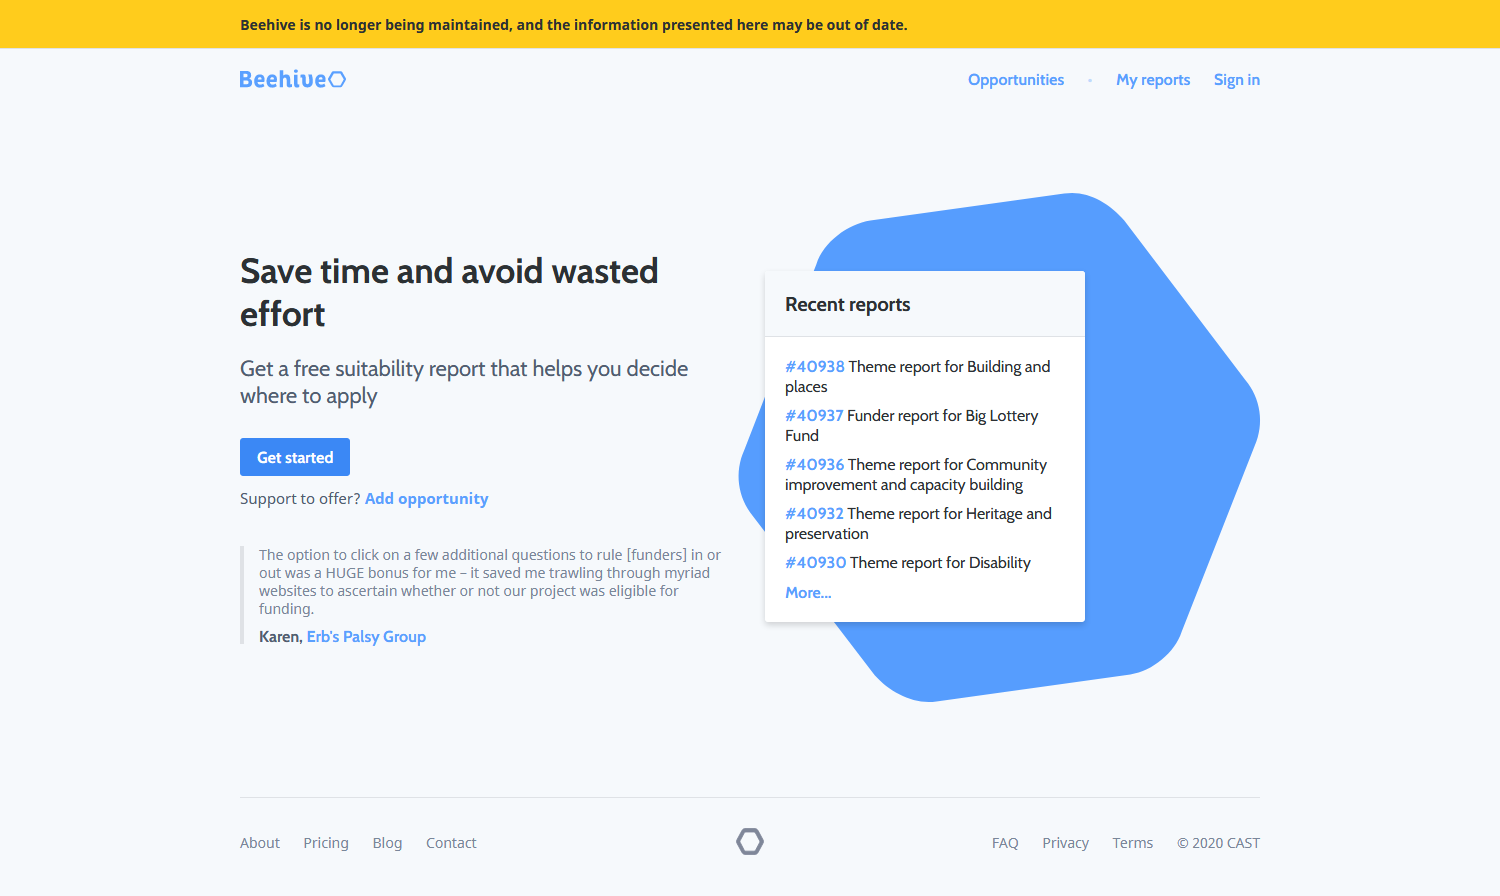
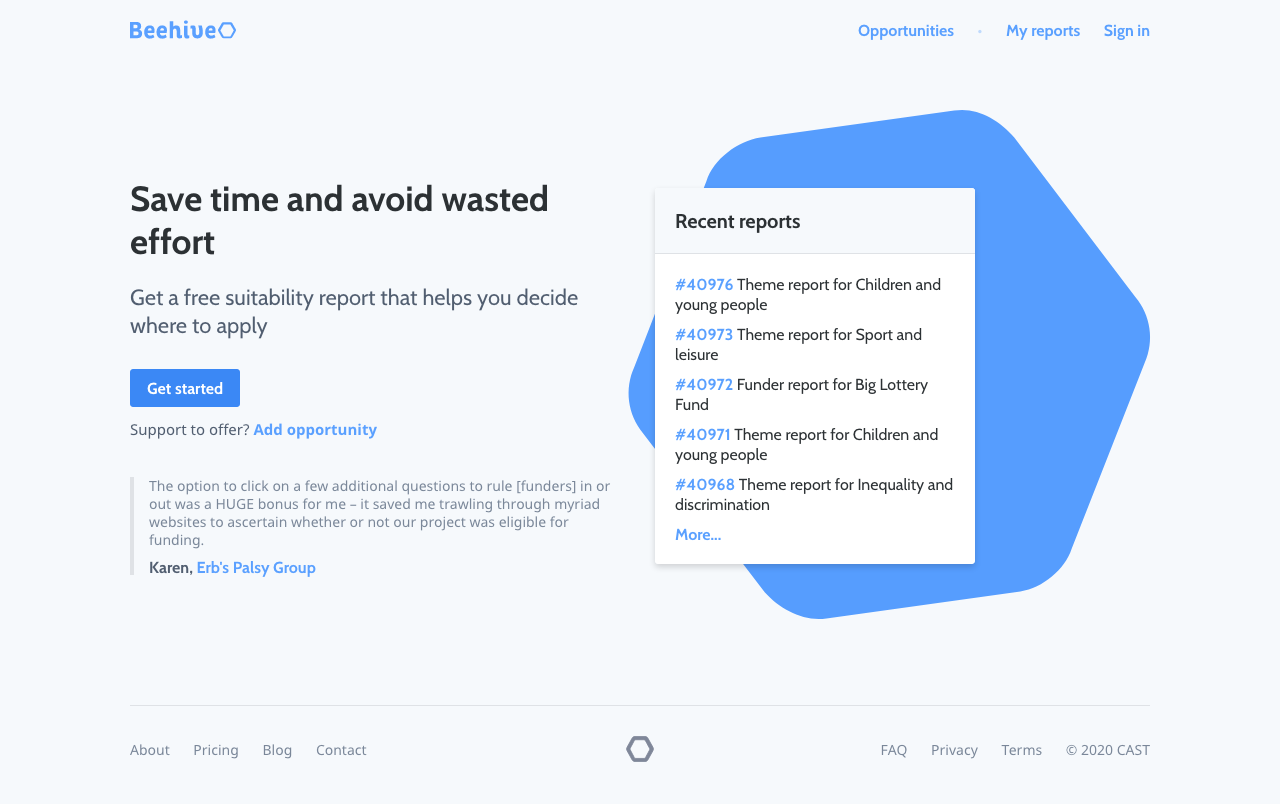
Remove learning page and add cookies notice

diff --git a/_includes/footer.html b/_includes/footer.html
@@ -1,11 +1,17 @@
-<div class="bg-ice" style="z-index: 1;">
+<div class="bg-ice" style="z-index: 1">
   <footer class="fs14 maxw1050 mx-auto px15 slate">
     <hr class="mb30" />
     <div class="flex flex-wrap justify-between items-center mb40">
       <div class="footer-links">
-        <a class="mx10" href="{{ site.baseurl }}{% link pages/about.md %}">About</a>
-        <a class="mx10" href="{{ site.baseurl }}{% link pages/insights.md %}" class="ml20">Insights</a>
-        <a class="mx10" href="{{ site.baseurl }}{% link pages/learning.md %}" class="ml20">Learning</a>
+        <a class="mx10" href="{{ site.baseurl }}{% link pages/about.md %}"
+          >About</a
+        >
+        <a
+          class="mx10"
+          href="{{ site.baseurl }}{% link pages/insights.md %}"
+          class="ml20"
+          >Insights</a
+        >
         <a class="mx10" href="mailto:support@beehivegiving.org">Contact</a>
       </div>
       <a class="mx-auto footer-logo" href="{{ site.baseurl }}/"
@@ -16,18 +22,17 @@
         />
       </a>
       <div class="footer-links right-align">
-        <a class="mx10" href="{{ site.baseurl }}{% link pages/privacy.md %}">Privacy</a>
-        <a class="ml10" target="_blank" rel="noopener" href="http://www.wearecast.org.uk">© 2020 CAST</a>
+        <a class="mx10" href="{{ site.baseurl }}{% link pages/privacy.md %}"
+          >Privacy</a
+        >
+        <a
+          class="ml10"
+          target="_blank"
+          rel="noopener"
+          href="http://www.wearecast.org.uk"
+          >© 2020 CAST</a
+        >
       </div>
     </div>
   </footer>
-</div>
-<div class="bg-yellow border-bottom border-mist fs14 lh18 black bold">
-  <div class="maxw1050 mx-auto pt15 px15">
-    <div class="flex flex-wrap">
-      <div class="mb15 md col2">
-        Beehive is no longer being maintained.
-      </div>
-    </div>
-  </div>
 </div>

diff --git a/_layouts/home.html b/_layouts/home.html
@@ -24,12 +24,10 @@ layout: default
     <p class="mb20">
       This site includes an
       <a href="{{ site.baseurl }}{% link pages/insights.md %}">analysis</a>
-      of the proposals submitted to Beehive,
-      <a href="{{ site.baseurl }}{% link pages/learning.md %}">key learnings</a>
-      on developing and delivering a tech for good product, as well as some
-      background information
-      <a href="{{ site.baseurl }}{% link pages/about.md %}">about the project</a
-      >. You can find the
+      of the proposals submitted to Beehive, as well as some background
+      information
+      <a href="{{ site.baseurl }}{% link pages/about.md %}">about</a>
+      the project, including some key learnings. You can find the
       <a
         href="https://github.com/TechforgoodCAST/beehive-giving"
         target="_blank"
@@ -46,7 +44,8 @@ layout: default
   <div class="col2 px15 mb40">
     <div class="maxw500 md px15" id="hex">
       <div class="bg-white rounded shadow">
-        <img src="{{ site.baseurl }}/assets/beehive-screenshot.png">
+        <img src="{{ site.baseurl }}/assets/beehive-screenshot.png" />
       </div>
+    </div>
   </div>
 </div>

diff --git a/_includes/header.html b/_includes/header.html
@@ -1,13 +1,25 @@
 <header class="bg-ice">
   <div class="maxw1050 mx-auto px15">
     <nav class="pt20 mb7 heading bold flex justify-between items-center">
-      <a id="navbar-logo" alt="Beehive logo" class="blue" href="{{ site.baseurl }}/">Beehive</a>
+      <a
+        id="navbar-logo"
+        alt="Beehive logo"
+        class="blue"
+        href="{{ site.baseurl }}/"
+        >Beehive</a
+      >
       <div>
         <a href="{{ site.baseurl }}{% link pages/about.md %}">About</a>
-        <a href="{{ site.baseurl }}{% link pages/insights.md %}" class="ml20">Insights</a>
-        <a href="{{ site.baseurl }}{% link pages/learning.md %}" class="ml20">Learning</a>
+        <a href="{{ site.baseurl }}{% link pages/insights.md %}" class="ml20"
+          >Insights</a
+        >
         <span class="mx20 translucent">•</span>
-        <a href="https://github.com/TechforgoodCAST/beehive-giving" target="_blank" rel="noopener noreferrer">Source</a>
+        <a
+          href="https://github.com/TechforgoodCAST/beehive-giving"
+          target="_blank"
+          rel="noopener noreferrer"
+          >Source</a
+        >
       </div>
     </nav>
   </div>

diff --git a/_layouts/default.html b/_layouts/default.html
@@ -13,6 +13,32 @@
 
     {%- include footer.html -%}
 
+    <div id="cookie-banner" class="rounded shadow" style="display: none;">
+      <div class="p15">
+        <p class="fs14 lh18 mb15 white">This site tracks visits anonymously using cookies. <a href="https://cookiesandyou.com/" target="_blank">More about cookies</a></p>
+        <div class="flex">
+          <a id="accept-cookies" class="btn btn-sm btn-wide white bg-green shadow">Accept</a>
+          <span style="width: 30px;"></span>
+          <a id="reject-cookies" class="btn btn-sm btn-wide white bg-red shadow">Reject</a>
+        </div>
+      </div>
+    </div>
+
+    <script>
+      'use strict';
+
+      if (localStorage.getItem('cookie-permission') === null) {
+        document.getElementById('cookie-banner').style.display = '';
+        ['accept-cookies', 'reject-cookies'].forEach(function(id) {
+          document.getElementById(id).addEventListener('click', function(e) {
+            e.preventDefault();
+            localStorage.setItem('cookie-permission', this.text.toLowerCase());
+            location.reload();
+          });
+        });
+      }
+    </script>
+
   </body>
 
 </html>

diff --git a/_sass/custom.sass b/_sass/custom.sass
@@ -240,3 +240,17 @@ footer.white hr
   height: 8px
   margin-bottom: 5px
   background: url('eye.svg') no-repeat
+
+// Cookie banner
+// ===========================================================================
+#cookie-banner
+  position: fixed
+  display: block
+  max-width: 250px
+  bottom: 15px
+  right: 15px
+  z-index: 9999
+  font-size: 0.9rem
+  background: map-get($colors, 'dark-blue')
+  @media screen and (max-width: 480px)
+    right: calc(50% - 125px)

diff --git a/_includes/google-analytics.html b/_includes/google-analytics.html
@@ -1,1 +1,16 @@
-<!-- TODO: -->
+<!-- Global site tag (gtag.js) - Google Analytics -->
+<script
+  async
+  src="https://www.googletagmanager.com/gtag/js?id=UA-30021098-2"
+></script>
+<script>
+  if (localStorage.getItem("cookie-permission") === "accept") {
+    window.dataLayer = window.dataLayer || [];
+    function gtag() {
+      dataLayer.push(arguments);
+    }
+    gtag("js", new Date());
+
+    gtag("config", "UA-30021098-2");
+  }
+</script>

diff --git a/_includes/head.html b/_includes/head.html
@@ -9,7 +9,6 @@
     type="image/png"
     href="{{ 'assets/favicon.png' | relative_url }}"
   />
-  <!-- TODO: cookies notice -->
   {%- feed_meta -%} {%- if jekyll.environment == 'production' and
   site.google_analytics -%} {%- include google-analytics.html -%} {%- endif -%}
 </head>

diff --git a/pages/insights.md b/pages/insights.md
@@ -1,6 +1,6 @@
 ---
 layout: insights
-title: Learning
+title: Insights from proposals
 permalink: /insights/
 ---
 
